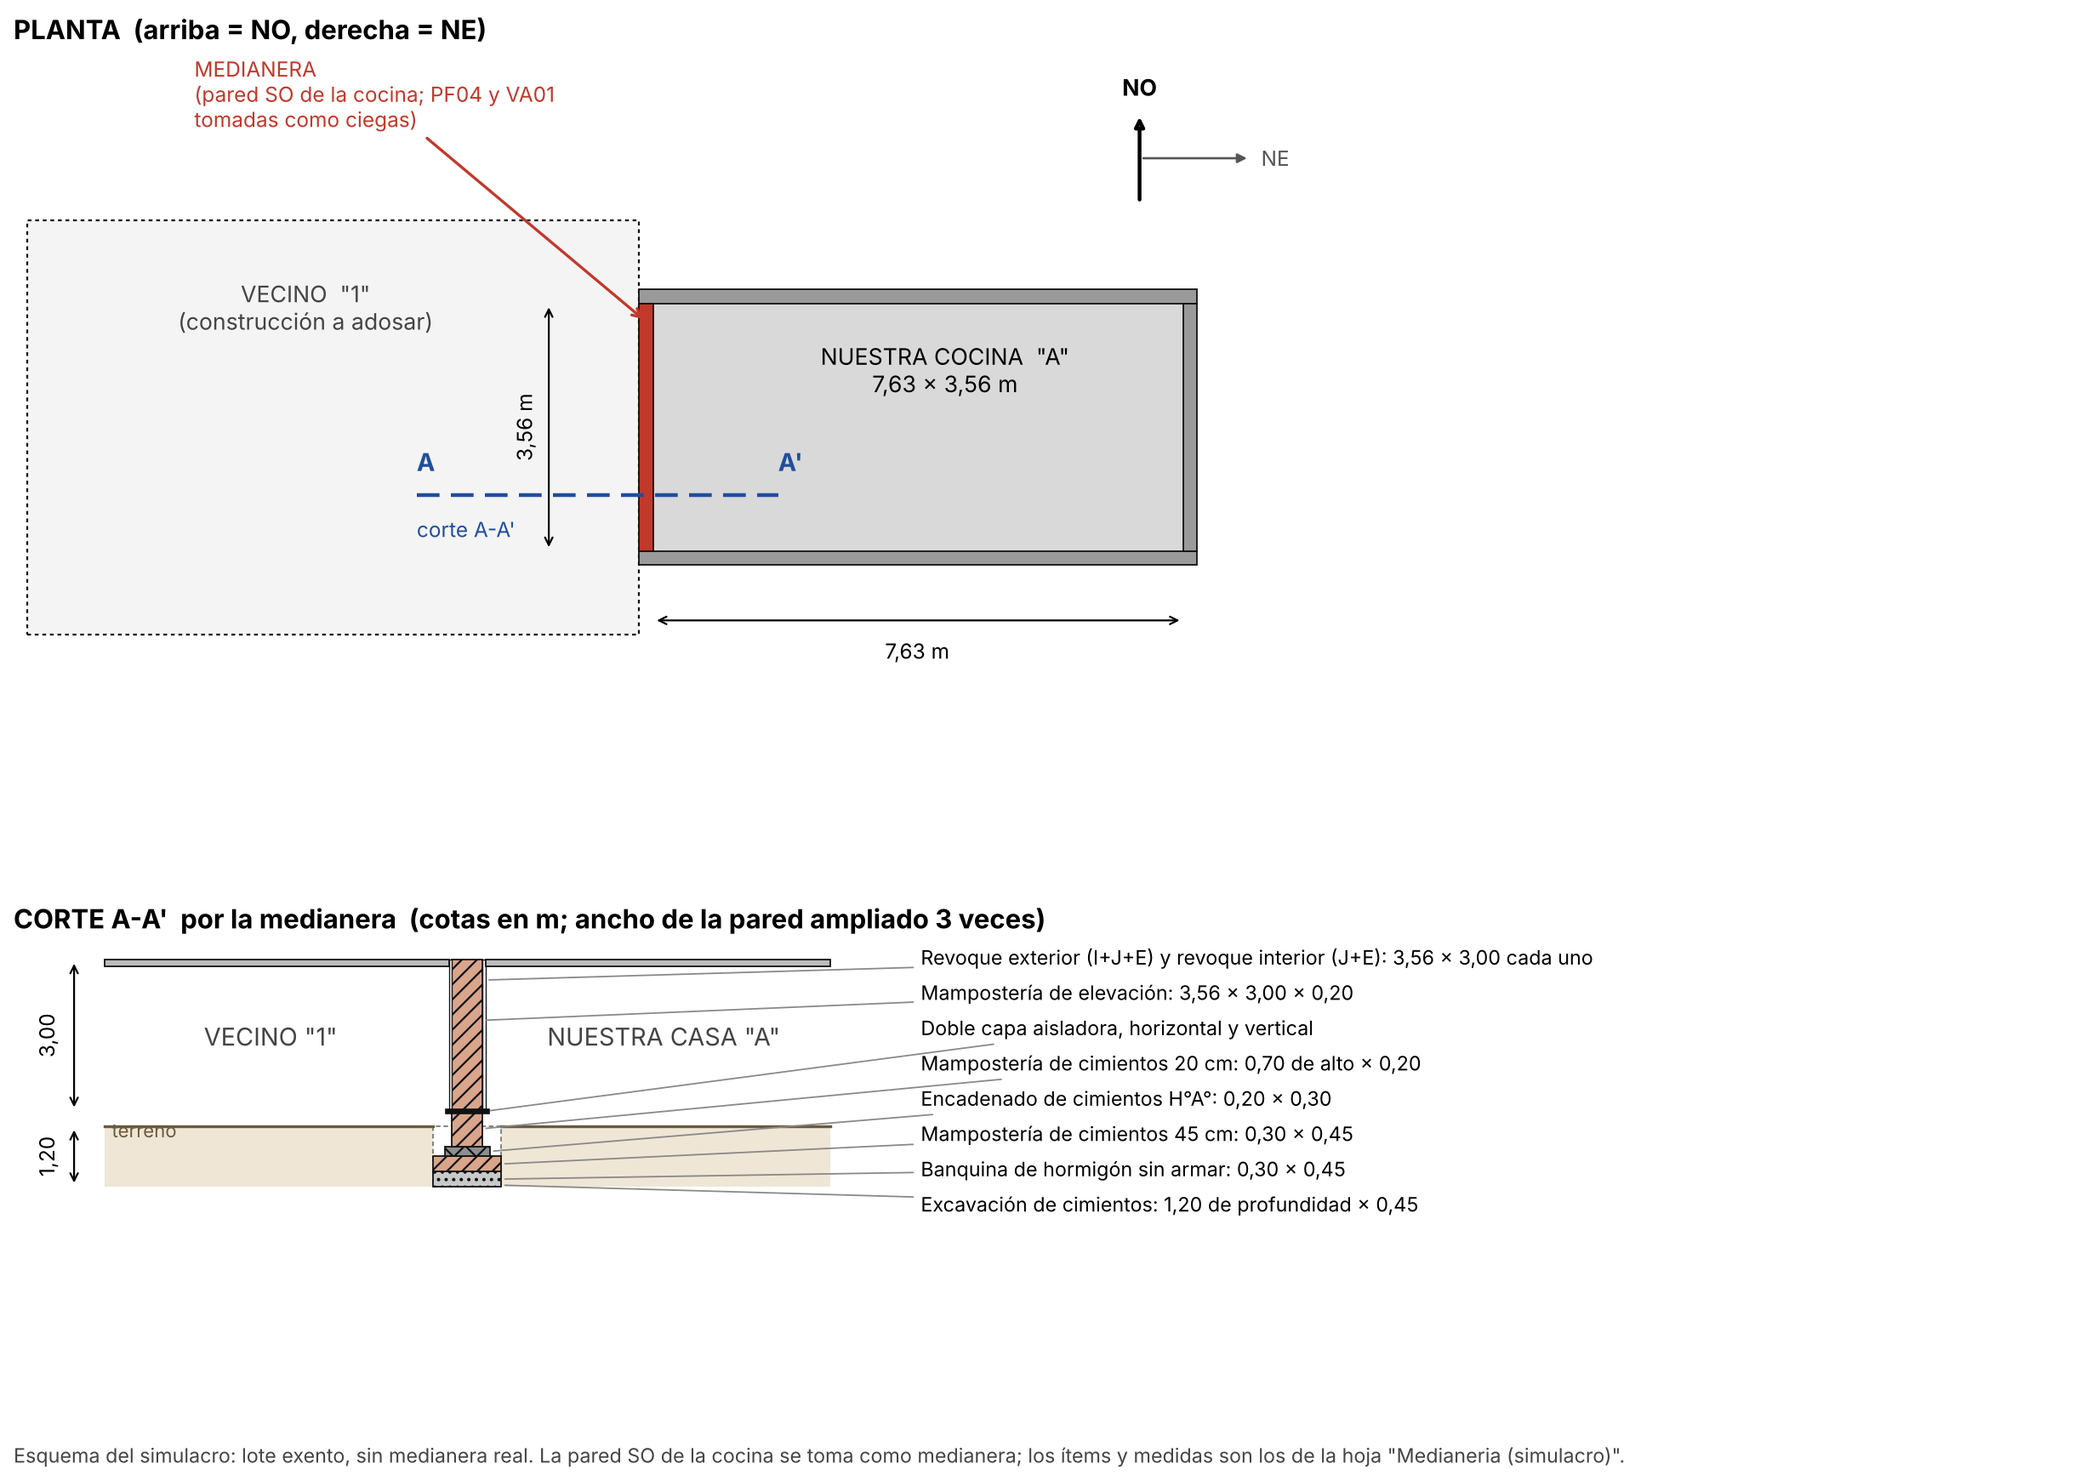
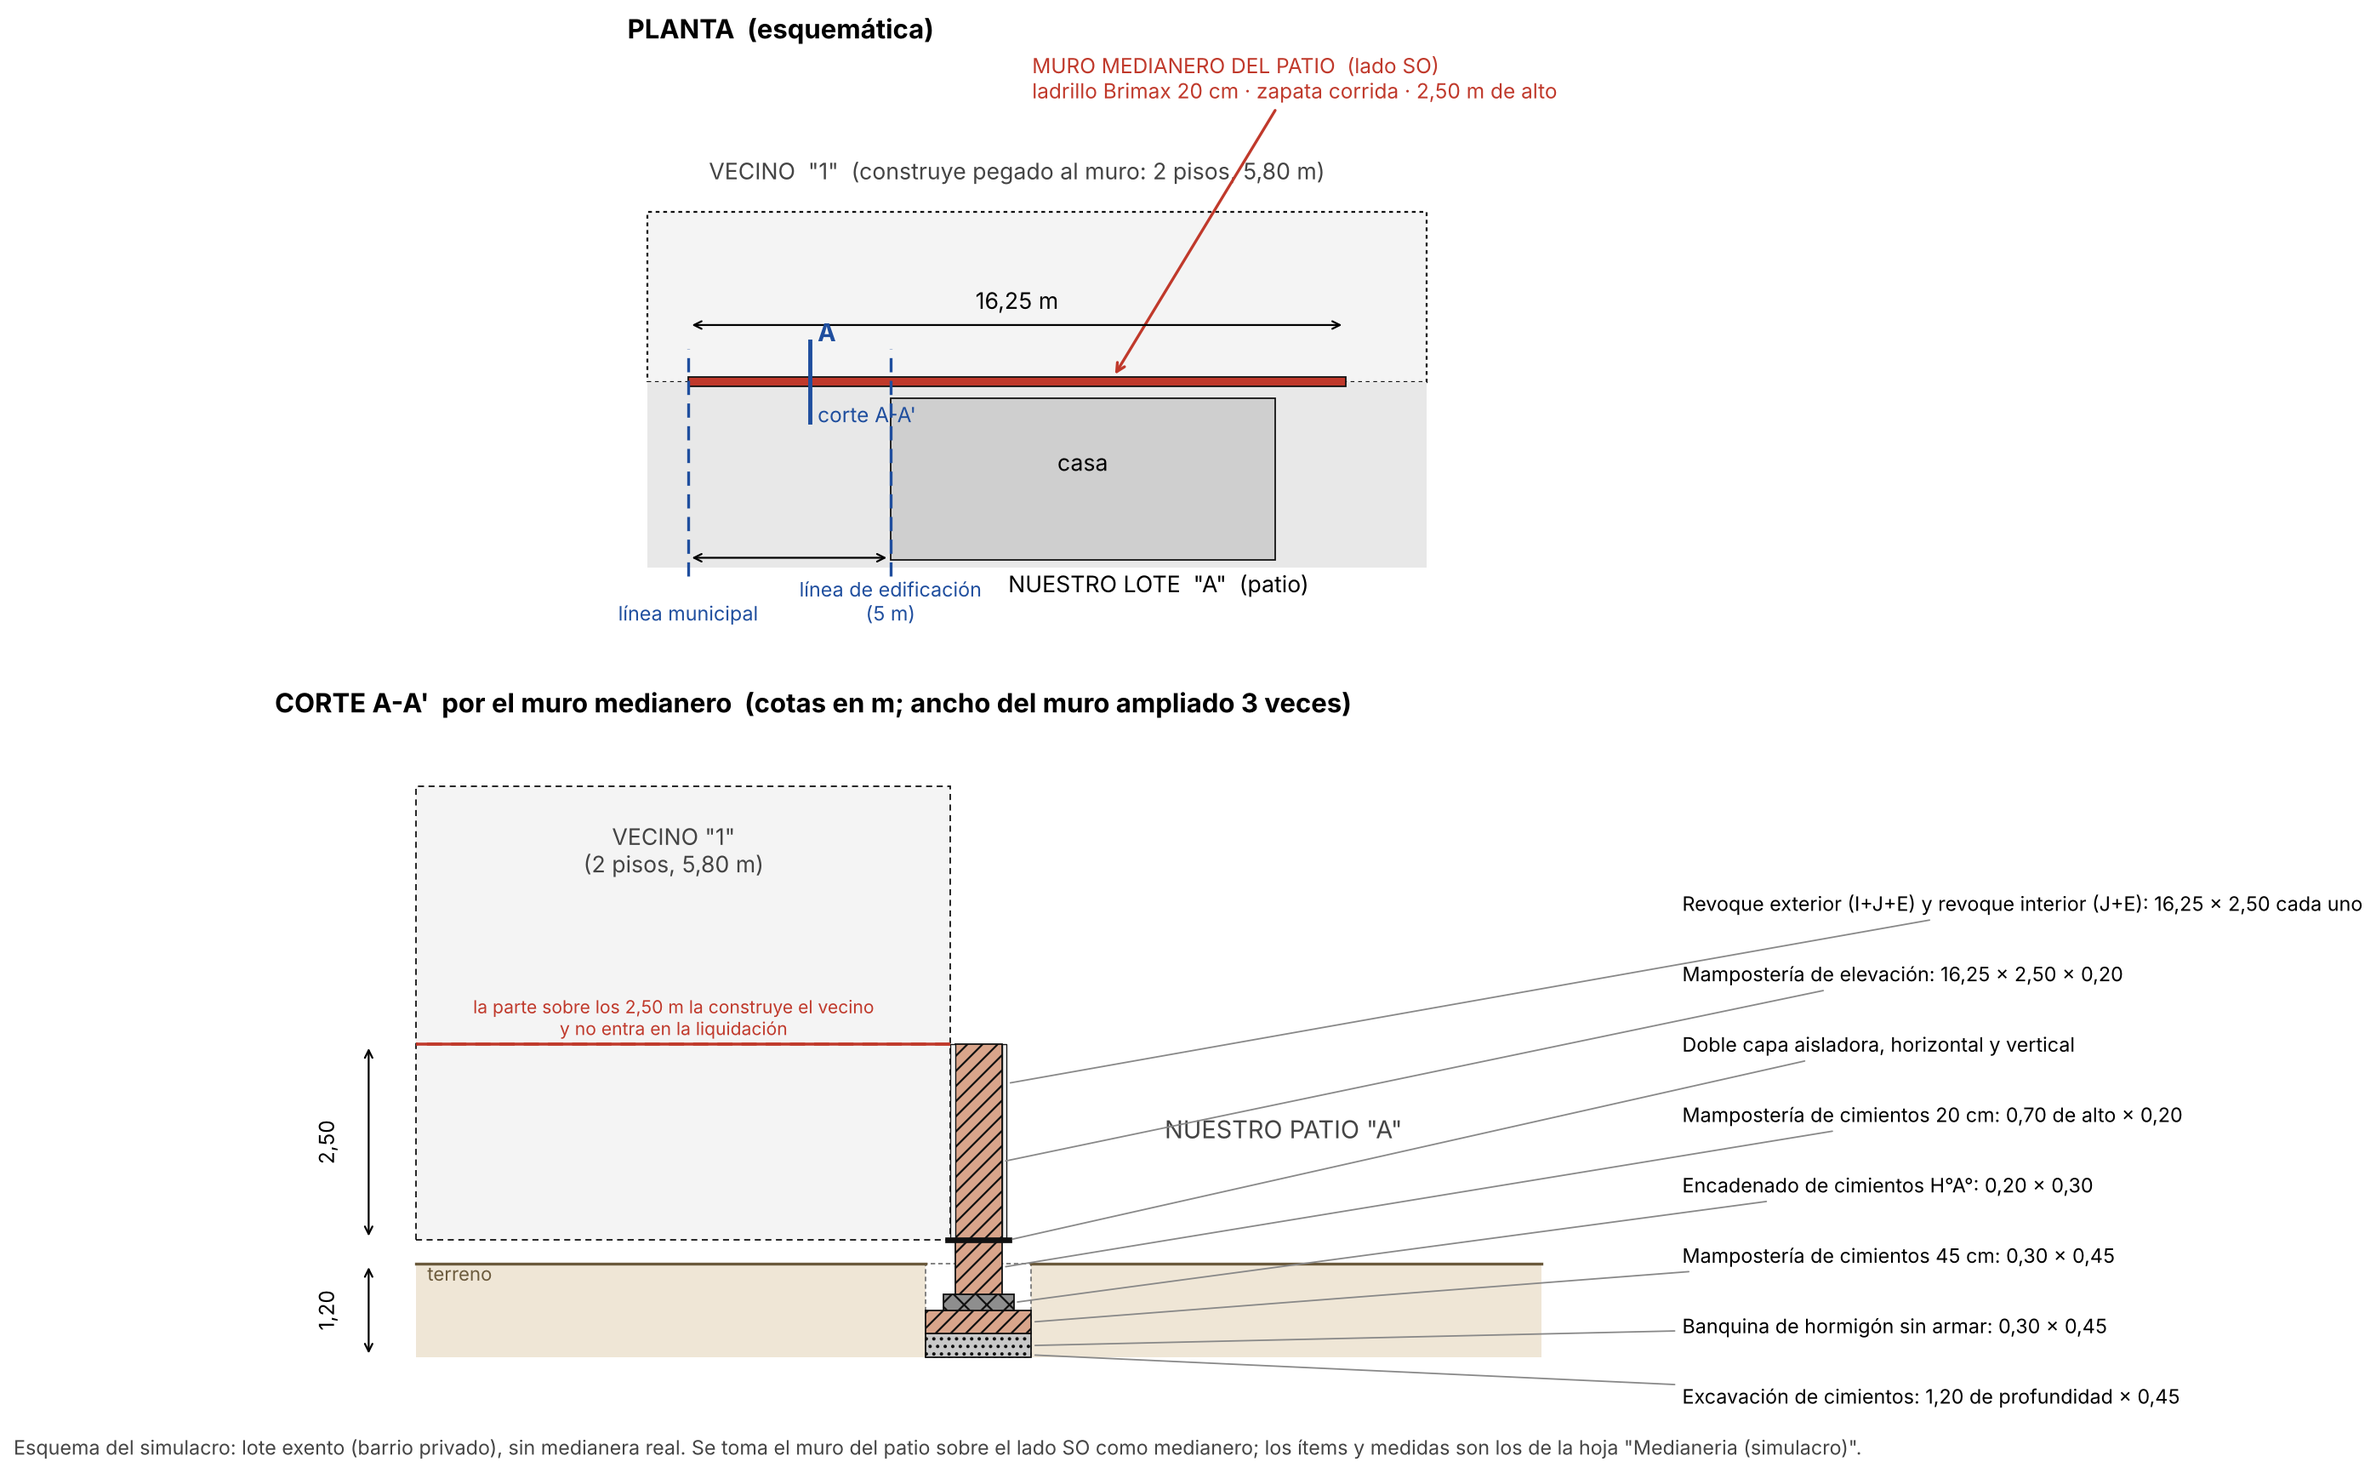
Medianeria: simulacro sobre el muro medianero del patio (16,25 x 2,50 m, zapata corrida), esquema y guia actualizados
Claude-Session: https://claude.ai/code/session_01NNMcFTBbEuLfDho1wCZzu7

diff --git a/planillas/medianeria/esquema.py b/planillas/medianeria/esquema.py
@@ -1,46 +1,41 @@
 # -*- coding: utf-8 -*-
-"""Esquema del simulacro de medianera: planta y corte."""
+"""Esquema del simulacro de medianera: planta y corte del muro medianero del patio."""
 import matplotlib
 matplotlib.use("Agg")
 import matplotlib.pyplot as plt
-from matplotlib.patches import Rectangle, Polygon, FancyArrowPatch
+from matplotlib.patches import Rectangle
 
+LARGO, ALTO, VECINO_ALTO = 16.25, 2.50, 5.80
 fig = plt.figure(figsize=(16, 11), dpi=160)
 fig.patch.set_facecolor("white")
-NEGRO = "#111111"; GRIS = "#d9d9d9"; GRIS2 = "#9a9a9a"
+NEGRO = "#111111"; GRIS = "#d9d9d9"; GRIS2 = "#9a9a9a"; ROJO = "#c0392b"
 
 # ======================= PLANTA =======================
-ax = fig.add_axes([0.03, 0.52, 0.60, 0.44]); ax.set_aspect("equal"); ax.axis("off")
-ax.set_title("PLANTA  (arriba = NO, derecha = NE)", fontsize=14, fontweight="bold", loc="left")
-ax.add_patch(Rectangle((-9, -1.2), 8.8, 5.96, fc="#f4f4f4", ec=NEGRO, lw=1, ls=(0, (2, 2))))
-ax.text(-5.0, 3.5, 'VECINO  "1"\n(construcción a adosar)', ha="center", va="center", fontsize=12, color="#444444")
-ax.add_patch(Rectangle((0.0, 0), 7.63, 3.56, fc=GRIS, ec="none"))
-ax.text(4.2, 2.6, 'NUESTRA COCINA  "A"\n7,63 × 3,56 m', ha="center", va="center", fontsize=12)
-e = 0.2
-ax.add_patch(Rectangle((-e, -e), 7.63 + 2 * e, e, fc=GRIS2, ec=NEGRO, lw=0.8))
-ax.add_patch(Rectangle((-e, 3.56), 7.63 + 2 * e, e, fc=GRIS2, ec=NEGRO, lw=0.8))
-ax.add_patch(Rectangle((7.63, 0), e, 3.56, fc=GRIS2, ec=NEGRO, lw=0.8))
-ax.add_patch(Rectangle((-e, 0), e, 3.56, fc="#c0392b", ec=NEGRO, lw=0.8))
-ax.annotate("MEDIANERA\n(pared SO de la cocina; PF04 y VA01\ntomadas como ciegas)",
-            xy=(-0.1, 3.3), xytext=(-6.6, 6.1), fontsize=11, color="#c0392b", ha="left",
-            arrowprops=dict(arrowstyle="->", color="#c0392b", lw=1.5))
-ax.annotate("", xy=(-1.5, 0), xytext=(-1.5, 3.56), arrowprops=dict(arrowstyle="<->", lw=1))
-ax.text(-1.85, 1.78, "3,56 m", rotation=90, ha="center", va="center", fontsize=11)
-ax.annotate("", xy=(0, -1.0), xytext=(7.63, -1.0), arrowprops=dict(arrowstyle="<->", lw=1))
-ax.text(3.8, -1.55, "7,63 m", ha="center", fontsize=11)
-ax.plot([-3.4, 1.8], [0.8, 0.8], color="#1f4e9e", lw=2, ls=(0, (6, 3)))
-ax.text(-3.4, 1.15, "A", color="#1f4e9e", fontsize=13, fontweight="bold")
-ax.text(1.8, 1.15, "A'", color="#1f4e9e", fontsize=13, fontweight="bold")
-ax.text(-3.4, 0.2, "corte A-A'", color="#1f4e9e", fontsize=11)
-ax.annotate("", xy=(7.0, 6.3), xytext=(7.0, 5.0), arrowprops=dict(arrowstyle="-|>", lw=2))
-ax.text(7.0, 6.55, "NO", ha="center", fontsize=12, fontweight="bold")
-ax.annotate("", xy=(8.6, 5.65), xytext=(7.0, 5.65), arrowprops=dict(arrowstyle="-|>", lw=1.2, color="#555555"))
-ax.text(8.75, 5.65, "NE", va="center", fontsize=11, color="#555555")
-ax.set_xlim(-9.2, 9.6); ax.set_ylim(-2.2, 7.2)
+ax = fig.add_axes([0.03, 0.55, 0.94, 0.40]); ax.set_aspect("equal"); ax.axis("off")
+ax.set_title("PLANTA  (esquemática)", fontsize=14, fontweight="bold", loc="left")
+ax.add_patch(Rectangle((-1, 0.0), LARGO + 3, 4.2, fc="#f4f4f4", ec=NEGRO, lw=1, ls=(0, (2, 2))))
+ax.text(LARGO / 2, 5.0, 'VECINO  "1"  (construye pegado al muro: 2 pisos, 5,80 m)', ha="center", fontsize=12, color="#444444")
+ax.add_patch(Rectangle((-1, -4.6), LARGO + 3, 4.6, fc="#e8e8e8", ec="none"))
+ax.text(LARGO / 2 + 3.5, -5.2, 'NUESTRO LOTE  "A"  (patio)', ha="center", fontsize=12)
+ax.add_patch(Rectangle((0, -0.12), LARGO, 0.24, fc=ROJO, ec=NEGRO, lw=0.8))
+ax.annotate("MURO MEDIANERO DEL PATIO  (lado SO)\nladrillo Brimax 20 cm · zapata corrida · 2,50 m de alto", xy=(10.5, 0.1),
+            xytext=(8.5, 7.0), fontsize=11, color=ROJO, arrowprops=dict(arrowstyle="->", color=ROJO, lw=1.5))
+ax.add_patch(Rectangle((5, -4.4), 9.5, 4.0, fc="#cfcfcf", ec=NEGRO, lw=0.8))
+ax.text(9.75, -2.2, "casa", ha="center", fontsize=12)
+for x, txt in ((0, "línea municipal"), (5, "línea de edificación\n(5 m)")):
+    ax.plot([x, x], [-4.8, 0.8], color="#1f4e9e", lw=1.5, ls=(0, (5, 3)))
+    ax.text(x, -5.9, txt, ha="center", fontsize=10.5, color="#1f4e9e")
+ax.annotate("", xy=(0, 1.4), xytext=(LARGO, 1.4), arrowprops=dict(arrowstyle="<->", lw=1))
+ax.text(LARGO / 2, 1.8, "16,25 m", ha="center", fontsize=12)
+ax.annotate("", xy=(0, -4.35), xytext=(5, -4.35), arrowprops=dict(arrowstyle="<->", lw=1))
+ax.plot([3.0, 3.0], [-1.0, 1.0], color="#1f4e9e", lw=2.2)
+ax.text(3.2, 1.0, "A", color="#1f4e9e", fontsize=13, fontweight="bold")
+ax.text(3.2, -1.0, "corte A-A'", color="#1f4e9e", fontsize=11)
+ax.set_xlim(-1.5, LARGO + 2.5); ax.set_ylim(-6.6, 8.2)
 
 # ======================= CORTE =======================
-bx = fig.add_axes([0.03, 0.06, 0.94, 0.42]); bx.set_aspect("equal"); bx.axis("off")
-bx.set_title("CORTE A-A'  por la medianera  (cotas en m; ancho de la pared ampliado 3 veces)", fontsize=14, fontweight="bold", loc="left")
+bx = fig.add_axes([0.03, 0.03, 0.94, 0.47]); bx.set_aspect("equal"); bx.axis("off")
+bx.set_title("CORTE A-A'  por el muro medianero  (cotas en m; ancho del muro ampliado 3 veces)", fontsize=14, fontweight="bold", loc="left")
 SX = 3.0
 def R(x, z, w, h, **kw): bx.add_patch(Rectangle((x * SX, z), w * SX, h, **kw))
 Z0 = -1.2; NT = 0.0
@@ -55,33 +50,35 @@ R(-0.15, Z0 + 0.60, 0.30, 0.20, fc="#8e8e8e", ec=NEGRO, lw=0.8, hatch="xx")
 R(-0.10, Z0 + 0.80, 0.20, 0.70, fc="#d9a58b", ec=NEGRO, lw=0.8, hatch="///")
 zc = Z0 + 1.50
 bx.plot([-0.13 * SX, 0.13 * SX], [zc, zc], color=NEGRO, lw=3)
-R(-0.10, zc, 0.20, 3.00, fc="#d9a58b", ec=NEGRO, lw=0.8, hatch="///")
-R(-0.12, zc, 0.02, 3.00, fc="#f2f2f2", ec=NEGRO, lw=0.6)
-R(0.10, zc, 0.02, 3.00, fc="#f2f2f2", ec=NEGRO, lw=0.6)
-R(-2.4, zc + 3.0 - 0.12, 2.28, 0.12, fc="#bdbdbd", ec=NEGRO, lw=0.8)
-R(0.12, zc + 3.0 - 0.12, 2.28, 0.12, fc="#bdbdbd", ec=NEGRO, lw=0.8)
-bx.text(-1.3 * SX, 1.6, 'VECINO "1"', ha="center", fontsize=13, color="#444444")
-bx.text(1.3 * SX, 1.6, 'NUESTRA CASA "A"', ha="center", fontsize=13, color="#444444")
+R(-0.10, zc, 0.20, ALTO, fc="#d9a58b", ec=NEGRO, lw=0.8, hatch="///")
+R(-0.12, zc, 0.02, ALTO, fc="#f2f2f2", ec=NEGRO, lw=0.6)
+R(0.10, zc, 0.02, ALTO, fc="#f2f2f2", ec=NEGRO, lw=0.6)
+# edificio del vecino: llega a 5,80, pero el muro liquidado termina en 2,50
+R(-2.4, zc, 2.28, VECINO_ALTO, fc="#f4f4f4", ec=NEGRO, lw=0.8, ls=(0, (4, 3)))
+R(-2.4, zc + ALTO - 0.0, 2.28, 0.0001, fc="none", ec="#c0392b", lw=1.6)
+bx.plot([-0.12 * SX, -2.4 * SX], [zc + ALTO, zc + ALTO], color=ROJO, lw=1.6, ls=(0, (5, 3)))
+bx.text(-1.3 * SX, zc + VECINO_ALTO - 1.1, 'VECINO "1"\n(2 pisos, 5,80 m)', ha="center", fontsize=12, color="#444444")
+bx.text(-1.3 * SX, zc + ALTO + 0.12, "la parte sobre los 2,50 m la construye el vecino\ny no entra en la liquidación", ha="center", fontsize=9.5, color=ROJO)
+bx.text(1.3 * SX, 1.6, 'NUESTRO PATIO "A"', ha="center", fontsize=13, color="#444444")
 bx.text(-2.35 * SX, NT - 0.22, "terreno", fontsize=10, color="#6b5a3c")
 XT = 3.0 * SX
 def ref(texto, y_obj, x_obj, y_txt):
     bx.annotate(texto, xy=(x_obj * SX, y_obj), xytext=(XT, y_txt), fontsize=10.5, va="center",
                 arrowprops=dict(arrowstyle="-", color="#888888", lw=0.8))
-ref("Revoque exterior (I+J+E) y revoque interior (J+E): 3,56 × 3,00 cada uno", zc + 2.6, 0.12, 3.35)
-ref("Mampostería de elevación: 3,56 × 3,00 × 0,20", zc + 1.8, 0.10, 2.65)
-ref("Doble capa aisladora, horizontal y vertical", zc, 0.13, 1.95)
-ref("Mampostería de cimientos 20 cm: 0,70 de alto × 0,20", Z0 + 1.15, 0.10, 1.25)
-ref("Encadenado de cimientos H°A°: 0,20 × 0,30", Z0 + 0.70, 0.15, 0.55)
-ref("Mampostería de cimientos 45 cm: 0,30 × 0,45", Z0 + 0.45, 0.225, -0.15)
-ref("Banquina de hormigón sin armar: 0,30 × 0,45", Z0 + 0.15, 0.225, -0.85)
-ref("Excavación de cimientos: 1,20 de profundidad × 0,45", Z0 + 0.03, 0.225, -1.55)
-bx.annotate("", xy=(-2.6 * SX, zc), xytext=(-2.6 * SX, zc + 3.0), arrowprops=dict(arrowstyle="<->", lw=1))
-bx.text(-2.78 * SX, zc + 1.5, "3,00", rotation=90, ha="center", va="center", fontsize=11)
+ref("Revoque exterior (I+J+E) y revoque interior (J+E): 16,25 × 2,50 cada uno", zc + 2.0, 0.12, 4.6)
+ref("Mampostería de elevación: 16,25 × 2,50 × 0,20", zc + 1.0, 0.10, 3.7)
+ref("Doble capa aisladora, horizontal y vertical", zc, 0.13, 2.8)
+ref("Mampostería de cimientos 20 cm: 0,70 de alto × 0,20", Z0 + 1.15, 0.10, 1.9)
+ref("Encadenado de cimientos H°A°: 0,20 × 0,30", Z0 + 0.70, 0.15, 1.0)
+ref("Mampostería de cimientos 45 cm: 0,30 × 0,45", Z0 + 0.45, 0.225, 0.1)
+ref("Banquina de hormigón sin armar: 0,30 × 0,45", Z0 + 0.15, 0.225, -0.8)
+ref("Excavación de cimientos: 1,20 de profundidad × 0,45", Z0 + 0.03, 0.225, -1.7)
+bx.annotate("", xy=(-2.6 * SX, zc), xytext=(-2.6 * SX, zc + ALTO), arrowprops=dict(arrowstyle="<->", lw=1))
+bx.text(-2.78 * SX, zc + ALTO / 2, "2,50", rotation=90, ha="center", va="center", fontsize=11)
 bx.annotate("", xy=(-2.6 * SX, Z0), xytext=(-2.6 * SX, NT), arrowprops=dict(arrowstyle="<->", lw=1))
 bx.text(-2.78 * SX, Z0 / 2, "1,20", rotation=90, ha="center", va="center", fontsize=11)
-bx.set_xlim(-3.0 * SX, 17.0 * SX / 1.0 * 0.62); bx.set_ylim(-1.9, 3.7)
-
-fig.text(0.03, 0.015, "Esquema del simulacro: lote exento, sin medianera real. La pared SO de la cocina se toma como medianera; "
+bx.set_xlim(-3.0 * SX, 10.5); bx.set_ylim(-2.1, 6.9)
+fig.text(0.03, 0.012, "Esquema del simulacro: lote exento (barrio privado), sin medianera real. Se toma el muro del patio sobre el lado SO como medianero; "
          "los ítems y medidas son los de la hoja \"Medianeria (simulacro)\".", fontsize=10.5, color="#444444")
 fig.savefig("/home/user/tareas-claude/planillas/medianeria/esquema_medianera.png", bbox_inches="tight")
 print("ok")

diff --git a/planillas/medianeria/medianeria.py b/planillas/medianeria/medianeria.py
@@ -4,7 +4,7 @@
 Genera un libro con dos hojas:
   - "Ejemplo (captura)": la planilla de ejemplo tal cual esta en la captura,
     con la formula del valor actual del ejemplo (da mas que el valor de reposicion).
-  - "Medianeria (simulacro)": el simulacro sobre la pared SO de la cocina, con
+  - "Medianeria (simulacro)": el simulacro sobre el muro medianero del patio, con
     la formula de Ross-Heidecke corregida.
 
 Las columnas calculadas llevan formulas; las de entrada son valores.
@@ -49,8 +49,8 @@ EJEMPLO = [
  ("Revoque interior  (J+E)",              49.0, None, None, "=B{r}", 3194.01, 17, 2, 60, False, 19.99),
 ]
 
-# Simulacro: pared SO de la cocina (PF04 y VA01), tomada como medianera ciega.
-LARGO, ALTO_M, ESP = 3.56, 3.00, 0.20
+# Simulacro: muro medianero del patio, lado SO, de 16,25 m x 2,50 m, ladrillo Brimax de 20 cm.
+LARGO, ALTO_M, ESP = 16.25, 2.50, 0.20
 SIMULACRO = [
  ("Excavación de cimientos",              LARGO, 1.2, 0.45, "=B{r}*C{r}*D{r}", 4207.13, 17, None, None, False, None),
  ("Banquina de hormigón sin armar",       LARGO, 0.3, 0.45, "=B{r}*C{r}*D{r}", 51585.77, 17, 2, 90, False, 13.54),
@@ -214,7 +214,7 @@ def apocope(t):
     return t
 monto = "%s pesos con %s centavos" % (apocope(palabras(entero)), apocope(palabras(cent)) if cent else "cero")
 construir(ws1, SIMULACRO, "PRECIOS MES DE DICIEMBRE 2022 (del ejemplo)", True, {
-    "leyenda": "SIMULACRO: pared SO de la cocina (PF04 y VA01) tomada como medianera. Lote exento, sin medianera real.",
+    "leyenda": "SIMULACRO: muro medianero del patio (lado SO), 16,25 m x 2,50 m, ladrillo Brimax 20 cm, zapata corrida. Lote exento, sin medianera real.",
     "textos": [
      'Por lo tanto el Sr. "A" abonará al Sr. "1" la mitad del valor actual del muro depreciado según lo indicado en la Planilla superior, o sea la suma de '
      + monto + ", para lo cual se extiende el siguiente recibo de pago.",

diff --git a/planillas/PARA_EXPLICAR.md b/planillas/PARA_EXPLICAR.md
@@ -559,25 +559,34 @@ Lo que se viene aplicando en todas las planillas, para no olvidarlo:
 ## 4.7 El simulacro del TP
 
 El lote es **exento** (barrio privado) y no tiene medianeras, así que para poder
-hacer el cálculo se simuló una: la **pared SO de la cocina** (3,56 m, donde están
-la PF04 y la VA01) se toma como medianera **ciega** y se supone un vecino "1" que
-construye pegado a ella. Las partes son el Sr. "A" (propietaria) y el Sr. "1"
-(vecino imaginario).
+hacer el cálculo se simuló una: el **muro del patio sobre el lado SO**, que se toma
+como muro medianero, y un vecino "1" que construye pegado a él (dos pisos, 5,80 m).
+Las partes son el Sr. "A" (propietaria) y el Sr. "1" (vecino imaginario).
 
 Hipótesis adoptadas en la hoja "Medianeria (simulacro)":
 
-- Muro de 3,56 m de largo × 3,00 m de alto × 0,20 m de espesor (ladrillo
-  Brimax 20 × 60 × 5, como el resto de la casa).
-- **Ítems y precios del ejemplo** (diciembre 2022), cambiando sólo las medidas:
-  el lote tiene pilotes y vigas de fundación, no cimientos corridos, pero se
-  conservaron los ítems del ejemplo porque los precios que se tienen son los suyos.
+- **Muro de 16,25 m de largo × 2,50 m de alto × 0,20 m de espesor**, de ladrillo
+  Brimax 20 × 60 × 5, como el resto de la casa. El largo se mide desde la línea
+  municipal hasta el eje con el otro terreno (la línea de edificación está 5 m
+  más atrás).
+- **Qué se liquida:** el muro tal como existe (2,50 m), no el edificio del
+  vecino. La parte que el vecino levanta sobre esos 2,50 m (hasta sus 5,80 m) la
+  construye él y no entra en la liquidación.
+- **Cimiento: zapata corrida**, que es lo que corresponde a un muro de patio. Se
+  usan los **ítems y precios del ejemplo** (diciembre 2022), cambiando sólo las
+  medidas. No se usan los pilotes ni las vigas de fundación de la casa, porque
+  pertenecen a la construcción y no a este muro.
 - **Antigüedad 17 años y estado 2**, como el ejemplo, para poder usar los mismos
   coeficientes de Ross-Heidecke. Si se cambia la antigüedad hay que buscar los
   coeficientes de nuevo en la tabla de la cátedra.
 - **Valor actual con la fórmula corregida** (ver 4.4). La hoja "Ejemplo (captura)"
   conserva la planilla original, con la fórmula del ejemplo, sólo para comparar.
-- Los datos del pie (fecha) quedan en blanco para completar. El monto en letras se
-  escribió a mano: si cambian los números, hay que actualizarlo.
+- La fecha del pie queda en blanco para completar. El monto en letras se escribió
+  a mano: si cambian los números, hay que actualizarlo.
+
+**Para consultar con la cátedra:** si un muro de patio sobre el límite se liquida
+como medianero, y qué altura mínima se exige para un muro medianero (acá se
+adoptó 2,50 m). También el reglamento del barrio puede fijar la altura.
 
 Hay un esquema (planta y corte) en `planillas/medianeria/esquema_medianera.png`.
 
